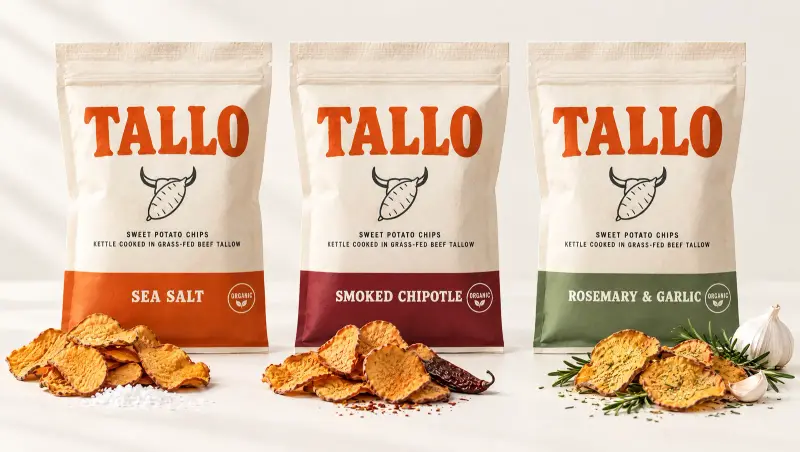
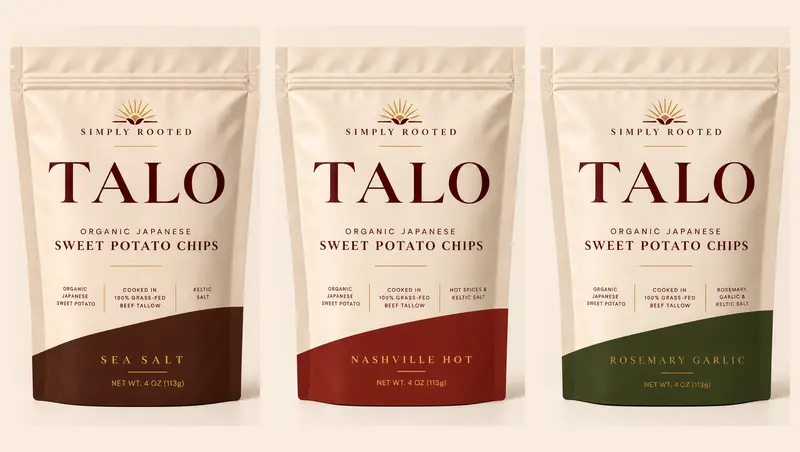
Put the final bags on the site: Sea Salt, Nashville Hot, Rosemary Garlic
- New bag photos and lineup image
- Smoked Chipotle renamed to Nashville Hot, Rosemary & Garlic to Rosemary Garlic
- Flavor colors match the new bag bands
- SQL to rename the flavors in the database (supabase/migrations)

Claude-Session: https://claude.ai/code/session_01KAFe2a8RRB9wgqDzV6wk6U

diff --git a/app/globals.css b/app/globals.css
@@ -9,9 +9,9 @@
   --t-ink: #0F1F17;
   --t-ink-soft: #3B4A3F;
   --t-on-dark-muted: #C9C2A8;
-  --t-salt: #D9531E;
-  --t-chipotle: #7A2420;
-  --t-rosemary: #7F936B;
+  --t-salt: #4A2416;
+  --t-hot: #7A2420;
+  --t-rosemary: #3F4A2E;
   --t-display: var(--font-display), "Helvetica Neue", Arial, sans-serif;
   --t-body: var(--font-body), "Helvetica Neue", Arial, sans-serif;
   --t-card: #FFFDF8;
@@ -167,7 +167,7 @@ body { background: var(--t-pasture); font-family: var(--t-body); color: var(--t-
 .t-flavor { background: var(--t-card); color: var(--t-ink); padding: 0 0 1.5rem; display: flex; flex-direction: column; border-radius: var(--t-radius); overflow: hidden; border: 1px solid var(--t-line); }
 .t-flavor::before { content: ""; display: block; height: 6px; background: var(--band); }
 .t-flavor[data-flavor="sea-salt"] { --band: var(--t-salt); }
-.t-flavor[data-flavor="smoked-chipotle"] { --band: var(--t-chipotle); }
+.t-flavor[data-flavor="nashville-hot"] { --band: var(--t-hot); }
 .t-flavor[data-flavor="rosemary-garlic"] { --band: var(--t-rosemary); }
 .t-flavor > * { margin-inline: 1.4rem; }
 .t-flavor__name { font-family: var(--t-display); font-weight: 700; letter-spacing: -0.02em; font-size: 1.7rem; margin-top: 1.3rem; margin-bottom: 0.5rem; }
@@ -241,7 +241,7 @@ body { background: var(--t-pasture); font-family: var(--t-body); color: var(--t-
 .t-slab-cta:active { transform: translateY(1px); }
 .t-slab-cta:disabled { opacity: 0.7; cursor: progress; }
 .t-form__fine, .t-form__error { margin: 0.9rem 0 0; font-size: 0.88rem; color: var(--t-ink-soft); }
-.t-form__error { color: var(--t-chipotle); font-weight: 600; }
+.t-form__error { color: var(--t-hot); font-weight: 600; }
 .t-form--done p { margin: 0; }
 .t-form--done .t-form__done-title { font-family: var(--t-display); font-weight: 700; letter-spacing: -0.02em; font-size: 2rem; margin-bottom: 0.5rem; color: var(--t-yam-deep); }
 
@@ -290,7 +290,7 @@ body { background: var(--t-pasture); font-family: var(--t-body); color: var(--t-
 .t-type-card .t-type-card__mono { font-size: 1.05rem; margin: 0.5rem 0 1.5rem; color: var(--t-ink); }
 .t-voice th[scope="row"] { font-weight: 700; width: 30%; }
 .t-voice tbody td:nth-child(2) { color: var(--t-ink); }
-.t-voice__no { text-decoration: line-through; text-decoration-color: var(--t-chipotle); opacity: 0.7; }
+.t-voice__no { text-decoration: line-through; text-decoration-color: var(--t-hot); opacity: 0.7; }
 .t-pack-grid { display: grid; grid-template-columns: 2fr 1fr 1fr; gap: 1rem; }
 .t-pack-grid img { width: 100%; height: 100% !important; object-fit: cover; border-radius: var(--t-radius); }
 
@@ -334,7 +334,7 @@ body { background: var(--t-pasture); font-family: var(--t-body); color: var(--t-
   transition: filter 0.2s ease, transform 0.1s ease;
 }
 .t-add-cta[data-band="sea-salt"] { --band: var(--t-salt); }
-.t-add-cta[data-band="smoked-chipotle"] { --band: var(--t-chipotle); }
+.t-add-cta[data-band="nashville-hot"] { --band: var(--t-hot); }
 .t-add-cta[data-band="rosemary-garlic"] { --band: var(--t-rosemary); }
 .t-add-cta[data-band="bundle"] { --band: var(--t-pasture); }
 .t-add-cta:hover { filter: brightness(1.12); }
@@ -345,7 +345,7 @@ body { background: var(--t-pasture); font-family: var(--t-body); color: var(--t-
 .t-shop { list-style: none; padding: 0; margin: 2rem 0 0; display: grid; grid-template-columns: repeat(3, minmax(0, 1fr)); gap: 1.25rem; }
 .t-product { background: var(--t-card); border: 1px solid var(--t-line); border-radius: var(--t-radius); overflow: hidden; display: flex; flex-direction: column; border-top: 5px solid var(--band, var(--t-pasture)); }
 .t-product[data-flavor="sea-salt"] { --band: var(--t-salt); }
-.t-product[data-flavor="smoked-chipotle"] { --band: var(--t-chipotle); }
+.t-product[data-flavor="nashville-hot"] { --band: var(--t-hot); }
 .t-product[data-flavor="rosemary-garlic"] { --band: var(--t-rosemary); }
 .t-product img { width: 100%; aspect-ratio: 4 / 4; object-fit: cover; }
 .t-product__body { padding: 1.1rem 1.2rem 1.3rem; display: flex; flex-direction: column; gap: 0.4rem; flex: 1; }

diff --git a/lib/catalog.ts b/lib/catalog.ts
@@ -1,6 +1,6 @@
 // The product list shown on the site. Prices here are display prices only:
 // checkout always re-reads prices from the database so nobody can change them in the browser.
-export type Flavor = "sea-salt" | "smoked-chipotle" | "rosemary-garlic";
+export type Flavor = "sea-salt" | "nashville-hot" | "rosemary-garlic";
 
 export type Product = {
   id: string;
@@ -27,32 +27,32 @@ export const CATALOG: Product[] = [
     bags: 1,
     contents: { "sea-salt": 1 },
     blurb: "The original. Sweet potato, tallow, salt, crunch.",
-    image: "/assets/img/pouch.webp",
-    imageSm: "/assets/img/pouch-sm.webp",
+    image: "/assets/img/bag-sea-salt.webp",
+    imageSm: "/assets/img/bag-sea-salt-sm.webp",
     band: "sea-salt",
   },
   {
-    id: "smoked-chipotle",
-    name: "Smoked Chipotle",
+    id: "nashville-hot",
+    name: "Nashville Hot",
     kind: "bag",
     priceCents: 1099,
     bags: 1,
-    contents: { "smoked-chipotle": 1 },
-    blurb: "Slow smoky heat that builds, then gives way to the sweet.",
-    image: "/assets/img/lineup.webp",
-    imageSm: "/assets/img/lineup-sm.webp",
-    band: "smoked-chipotle",
+    contents: { "nashville-hot": 1 },
+    blurb: "Cayenne heat with a touch of sweet, Nashville style.",
+    image: "/assets/img/bag-nashville-hot.webp",
+    imageSm: "/assets/img/bag-nashville-hot-sm.webp",
+    band: "nashville-hot",
   },
   {
     id: "rosemary-garlic",
-    name: "Rosemary & Garlic",
+    name: "Rosemary Garlic",
     kind: "bag",
     priceCents: 1099,
     bags: 1,
     contents: { "rosemary-garlic": 1 },
     blurb: "Herby and savory, a little Sunday roast on a chip.",
-    image: "/assets/img/lineup.webp",
-    imageSm: "/assets/img/lineup-sm.webp",
+    image: "/assets/img/bag-rosemary-garlic.webp",
+    imageSm: "/assets/img/bag-rosemary-garlic-sm.webp",
     band: "rosemary-garlic",
   },
   {
@@ -61,7 +61,7 @@ export const CATALOG: Product[] = [
     kind: "bundle",
     priceCents: 2999,
     bags: 3,
-    contents: { "sea-salt": 1, "smoked-chipotle": 1, "rosemary-garlic": 1 },
+    contents: { "sea-salt": 1, "nashville-hot": 1, "rosemary-garlic": 1 },
     blurb: "One bag of each flavor. The best way to find your favorite.",
     image: "/assets/img/lineup.webp",
     imageSm: "/assets/img/lineup-sm.webp",
@@ -72,10 +72,10 @@ export const CATALOG: Product[] = [
     kind: "bundle",
     priceCents: 5499,
     bags: 6,
-    contents: { "sea-salt": 2, "smoked-chipotle": 2, "rosemary-garlic": 2 },
+    contents: { "sea-salt": 2, "nashville-hot": 2, "rosemary-garlic": 2 },
     blurb: "Two of each flavor, for the pantry, the truck and the tailgate.",
-    image: "/assets/img/pouch-open.webp",
-    imageSm: "/assets/img/pouch-open-sm.webp",
+    image: "/assets/img/lineup.webp",
+    imageSm: "/assets/img/lineup-sm.webp",
   },
 ];
 

diff --git a/app/page.tsx b/app/page.tsx
@@ -52,8 +52,8 @@ const CHAPTERS: Chapter[] = [
 
 const FLAVORS: { id: Flavor; name: string; note: string; pairs: string }[] = [
   { id: "sea-salt", name: "Sea Salt", note: "The original. Sweet potato, tallow, salt, crunch.", pairs: "Burgers, a cold drink, a long drive" },
-  { id: "smoked-chipotle", name: "Smoked Chipotle", note: "Slow smoky heat that builds, then gives way to the sweet.", pairs: "Tailgates, tacos, game night" },
-  { id: "rosemary-garlic", name: "Rosemary & Garlic", note: "Herby and savory, a little Sunday roast on a chip.", pairs: "Cheese boards, steak night, wine" },
+  { id: "nashville-hot", name: "Nashville Hot", note: "Cayenne heat with a touch of sweet, Nashville style.", pairs: "Game day, wings night, a cold drink" },
+  { id: "rosemary-garlic", name: "Rosemary Garlic", note: "Herby and savory, a little Sunday roast on a chip.", pairs: "Cheese boards, steak night, wine" },
 ];
 
 const FAQ = [
@@ -86,12 +86,12 @@ export default function Home() {
           <div className="t-wrap t-bag">
             <figure className="t-bag__figure">
               <img
-                src="/assets/img/pouch.webp"
-                srcSet="/assets/img/pouch-sm.webp 800w, /assets/img/pouch.webp 1600w"
+                src="/assets/img/bag-sea-salt.webp"
+                srcSet="/assets/img/bag-sea-salt-sm.webp 800w, /assets/img/bag-sea-salt.webp 896w"
                 sizes="(max-width: 860px) 100vw, 50vw"
-                alt="Tallo Sea Salt stand-up pouch with sweet potato chips and a whole sweet potato"
-                width={1600}
-                height={2000}
+                alt="Sea Salt stand-up pouch, cream with a brown band"
+                width={896}
+                height={1120}
               />
             </figure>
             <div className="t-bag__copy">
@@ -126,9 +126,9 @@ export default function Home() {
                 src="/assets/img/lineup.webp"
                 srcSet="/assets/img/lineup-sm.webp 800w, /assets/img/lineup.webp 1600w"
                 sizes="(max-width: 1200px) 100vw, 1200px"
-                alt="Tallo Sea Salt, Smoked Chipotle, and Rosemary and Garlic stand-up pouches side by side"
+                alt="Sea Salt, Nashville Hot, and Rosemary Garlic stand-up pouches side by side"
                 width={1600}
-                height={905}
+                height={904}
               />
             </figure>
             <ul className="t-flavors">

diff --git a/app/brand/page.tsx b/app/brand/page.tsx
@@ -16,9 +16,9 @@ const COLORS = [
   { name: "Yam", hex: "#E8641E", use: "The one accent. Wordmark, key actions", ink: "#0F1F17" },
 ];
 const FLAVOR_COLORS = [
-  { name: "Sea Salt band", hex: "#D9531E" },
-  { name: "Smoked Chipotle band", hex: "#7A2420" },
-  { name: "Rosemary & Garlic band", hex: "#7F936B" },
+  { name: "Sea Salt band", hex: "#4A2416" },
+  { name: "Nashville Hot band", hex: "#7A2420" },
+  { name: "Rosemary Garlic band", hex: "#3F4A2E" },
 ];
 const VOICE = [
   { rule: "Say the ingredient, not the adjective.", yes: "Cooked in grass-fed beef tallow.", no: "Crafted with premium artisanal fats." },
@@ -130,12 +130,12 @@ export default function BrandPage() {
             <h2 id="pack-title" className="t-h2">Packaging</h2>
             <p className="t-brand__note t-brand__note--dark">
               8 oz full-size stand-up pouch with a flat gusseted bottom, press-to-close zip, and tear notch. Matte paper-texture
-              stock, Yam wordmark at the top, mark centered, flavor band across the bottom with the organic seal.
+              cream stock, serif wordmark, gold details, and a slanted flavor band across the bottom with the flavor name in gold.
             </p>
             <div className="t-pack-grid">
-              <img src="/assets/img/lineup.webp" alt="All three Tallo pouches" width={1600} height={905} loading="lazy" />
-              <img src="/assets/img/pouch-sm.webp" alt="Tallo Sea Salt pouch, front" width={800} height={1000} loading="lazy" />
-              <img src="/assets/img/pouch-open-sm.webp" alt="Tallo pouch, three-quarter view, opened" width={800} height={1000} loading="lazy" />
+              <img src="/assets/img/lineup.webp" alt="All three pouches" width={1600} height={904} loading="lazy" />
+              <img src="/assets/img/bag-nashville-hot-sm.webp" alt="Nashville Hot pouch, front" width={800} height={1000} loading="lazy" />
+              <img src="/assets/img/bag-rosemary-garlic-sm.webp" alt="Rosemary Garlic pouch, front" width={800} height={1000} loading="lazy" />
             </div>
           </div>
         </section>

diff --git a/components/waitlist-form.tsx b/components/waitlist-form.tsx
@@ -2,13 +2,13 @@
 
 import { useEffect, useState, type FormEvent } from "react";
 
-export type Flavor = "sea-salt" | "smoked-chipotle" | "rosemary-garlic" | "all";
+export type Flavor = "sea-salt" | "nashville-hot" | "rosemary-garlic" | "all";
 export const FLAVOR_EVENT = "tallo:flavor";
 
 const OPTIONS: { value: Flavor; label: string }[] = [
   { value: "sea-salt", label: "Sea Salt" },
-  { value: "smoked-chipotle", label: "Smoked Chipotle" },
-  { value: "rosemary-garlic", label: "Rosemary & Garlic" },
+  { value: "nashville-hot", label: "Nashville Hot" },
+  { value: "rosemary-garlic", label: "Rosemary Garlic" },
   { value: "all", label: "One of each" },
 ];
 

diff --git a/app/api/waitlist/route.ts b/app/api/waitlist/route.ts
@@ -2,7 +2,7 @@ import { NextResponse } from "next/server";
 
 import { db } from "@/lib/supabase";
 
-const FLAVORS = new Set(["sea-salt", "smoked-chipotle", "rosemary-garlic", "all"]);
+const FLAVORS = new Set(["sea-salt", "nashville-hot", "rosemary-garlic", "all"]);
 const EMAIL = /^[^\s@]+@[^\s@]+\.[^\s@]{2,}$/;
 
 export async function POST(req: Request) {

diff --git a/CLAUDE.md b/CLAUDE.md
@@ -18,7 +18,7 @@ The two founders edit it through Claude Code / Cowork and are not developers, so
 
 ## Brand rules (keep these when editing)
 - Palette: Pasture `#0F1F17`, Butter `#F7E7B4`, Paper `#FBF3DF`, Yam `#E8641E` (the only accent).
-  Flavor band colors (Sea Salt `#D9531E`, Smoked Chipotle `#7A2420`, Rosemary & Garlic `#7F936B`) appear only on flavor elements.
+  Flavor band colors (Sea Salt `#4A2416`, Nashville Hot `#7A2420`, Rosemary Garlic `#3F4A2E`) appear only on flavor elements.
 - Type: Schibsted Grotesk (bold) for headlines, Instrument Sans for body, DM Mono for label-style text. The TALLO logo wordmark is chunky Fraunces Black, drawn as an SVG in `components/logo.tsx`; don't redraw it in a font.
 - Look: clean and light. Mostly cream/white backgrounds, thin borders, rounded corners, pill buttons. Dark green mainly for the film and footer.
 - Voice: plain and confident. Name the ingredient instead of using adjectives. No health claims.
